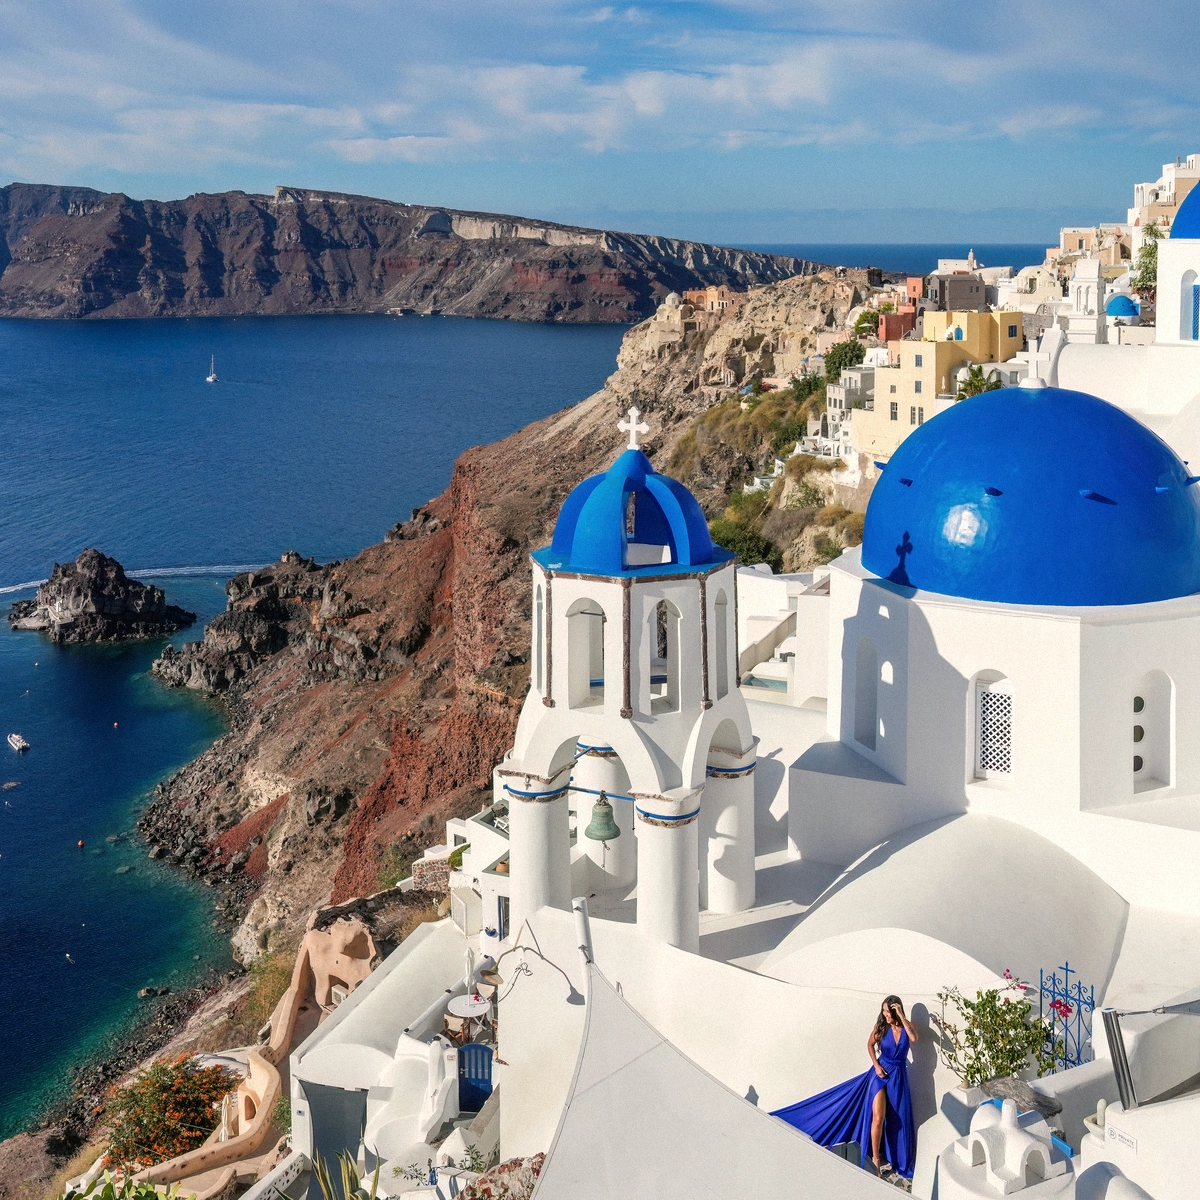
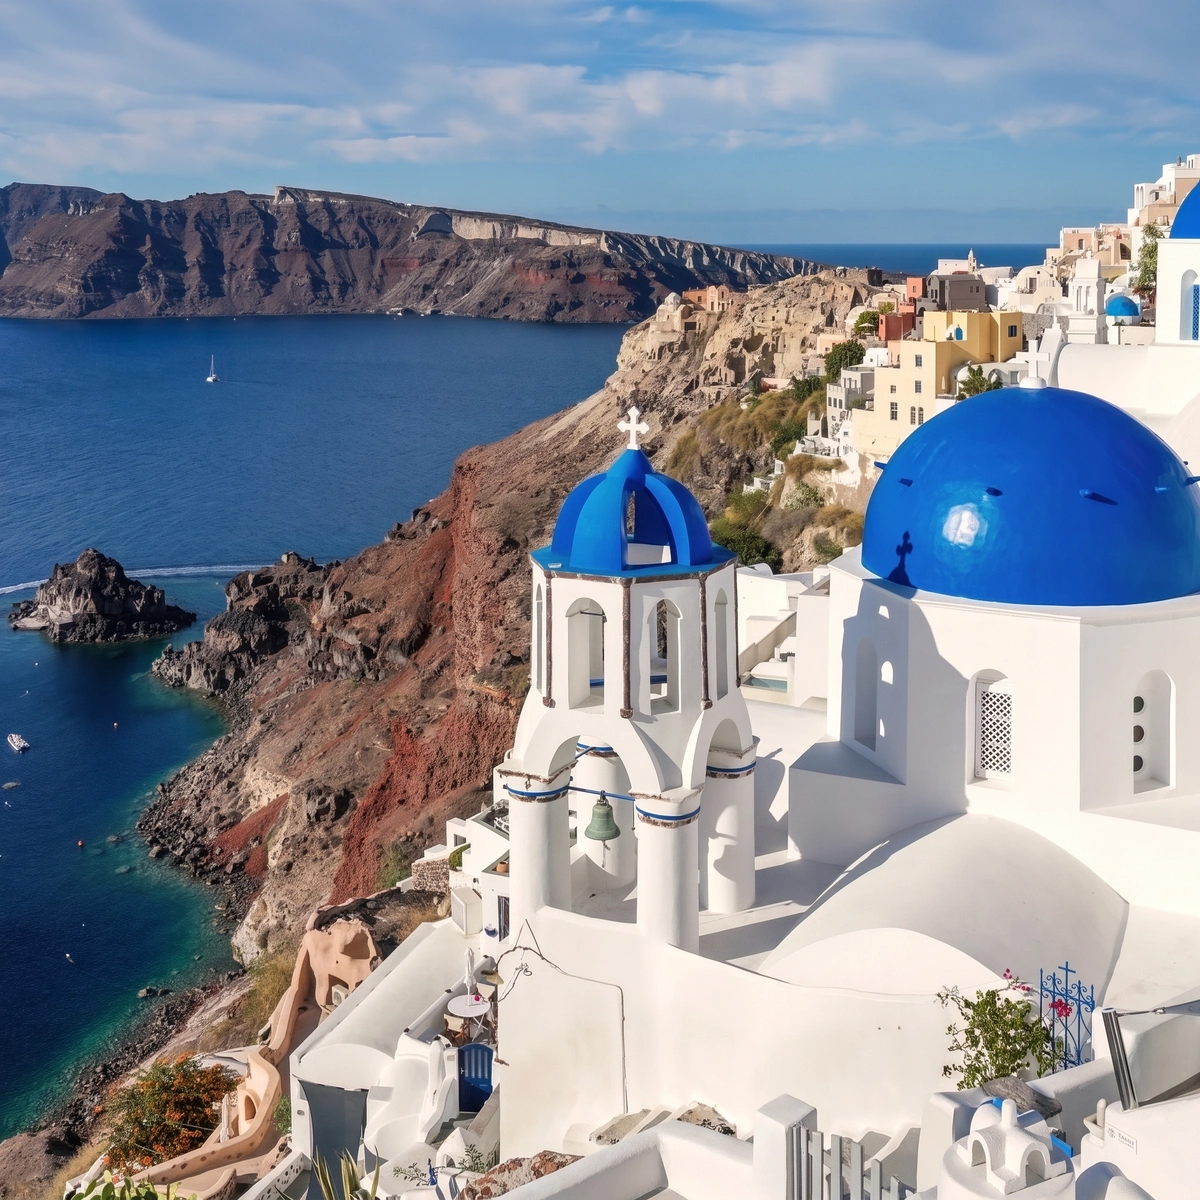
Grèce : hero Oia sans la femme en robe bleue (#92)

diff --git a/references/destination/grece/SOURCES.md b/references/destination/grece/SOURCES.md
@@ -31,7 +31,7 @@ Each generated image in `public/destination/grece/` was produced by feeding the 
 | `map-hydra.png`               | `map-hydra-ref.jpg`                | TODO       | TODO    |
 | `map-milos.png`               | `map-milos-ref.jpg`                | TODO       | TODO    |
 
-| `hero-1.webp` | `hero-1-ref.jpg` | 1000 Three domes of Oia in Santorini Photo by Giles Laurent.jpg. **Vraie photo**, sans IA : recadrage et étalonnage local | https://commons.wikimedia.org/wiki/File:1000_Three_domes_of_Oia_in_Santorini_Photo_by_Giles_Laurent.jpg | CC BY-SA 4.0, Giles Laurent (crédit obligatoire) |
+| `hero-1.webp` | `hero-1-ref.jpg` | 1000 Three domes of Oia in Santorini Photo by Giles Laurent.jpg. **Vraie photo**, retouchée par IA (Gemini) pour retirer la femme en robe bleue ; recadrage et étalonnage local | https://commons.wikimedia.org/wiki/File:1000_Three_domes_of_Oia_in_Santorini_Photo_by_Giles_Laurent.jpg | CC BY-SA 4.0, Giles Laurent (crédit obligatoire) |
 | `archives/hero-2-libre.webp` (remplacée) | | Acropolis of Athens Cecropia 7.jpg. **Vraie photo**, sans IA : recadrage et étalonnage local | https://commons.wikimedia.org/wiki/File:Acropolis_of_Athens_Cecropia_7.jpg | CC BY-SA 4.0, kallerna (crédit obligatoire) |
 | `full-image.webp` | `full-image-ref.jpg` | Santorini, Greece - panoramio (59).jpg. **Vraie photo**, sans IA : recadrage et étalonnage local | https://commons.wikimedia.org/wiki/File:Santorini,_Greece_-_panoramio_(59).jpg | CC BY-SA 3.0, logopop (crédit obligatoire) |
 | `split-1.webp` | `split-1-ref.jpg` | Harbour of Hydra island Greece (43058400180).jpg. **Vraie photo**, sans IA : recadrage et étalonnage local | https://commons.wikimedia.org/wiki/File:Harbour_of_Hydra_island_Greece_(43058400180).jpg | CC BY 2.0, dronepicr (crédit obligatoire) |
